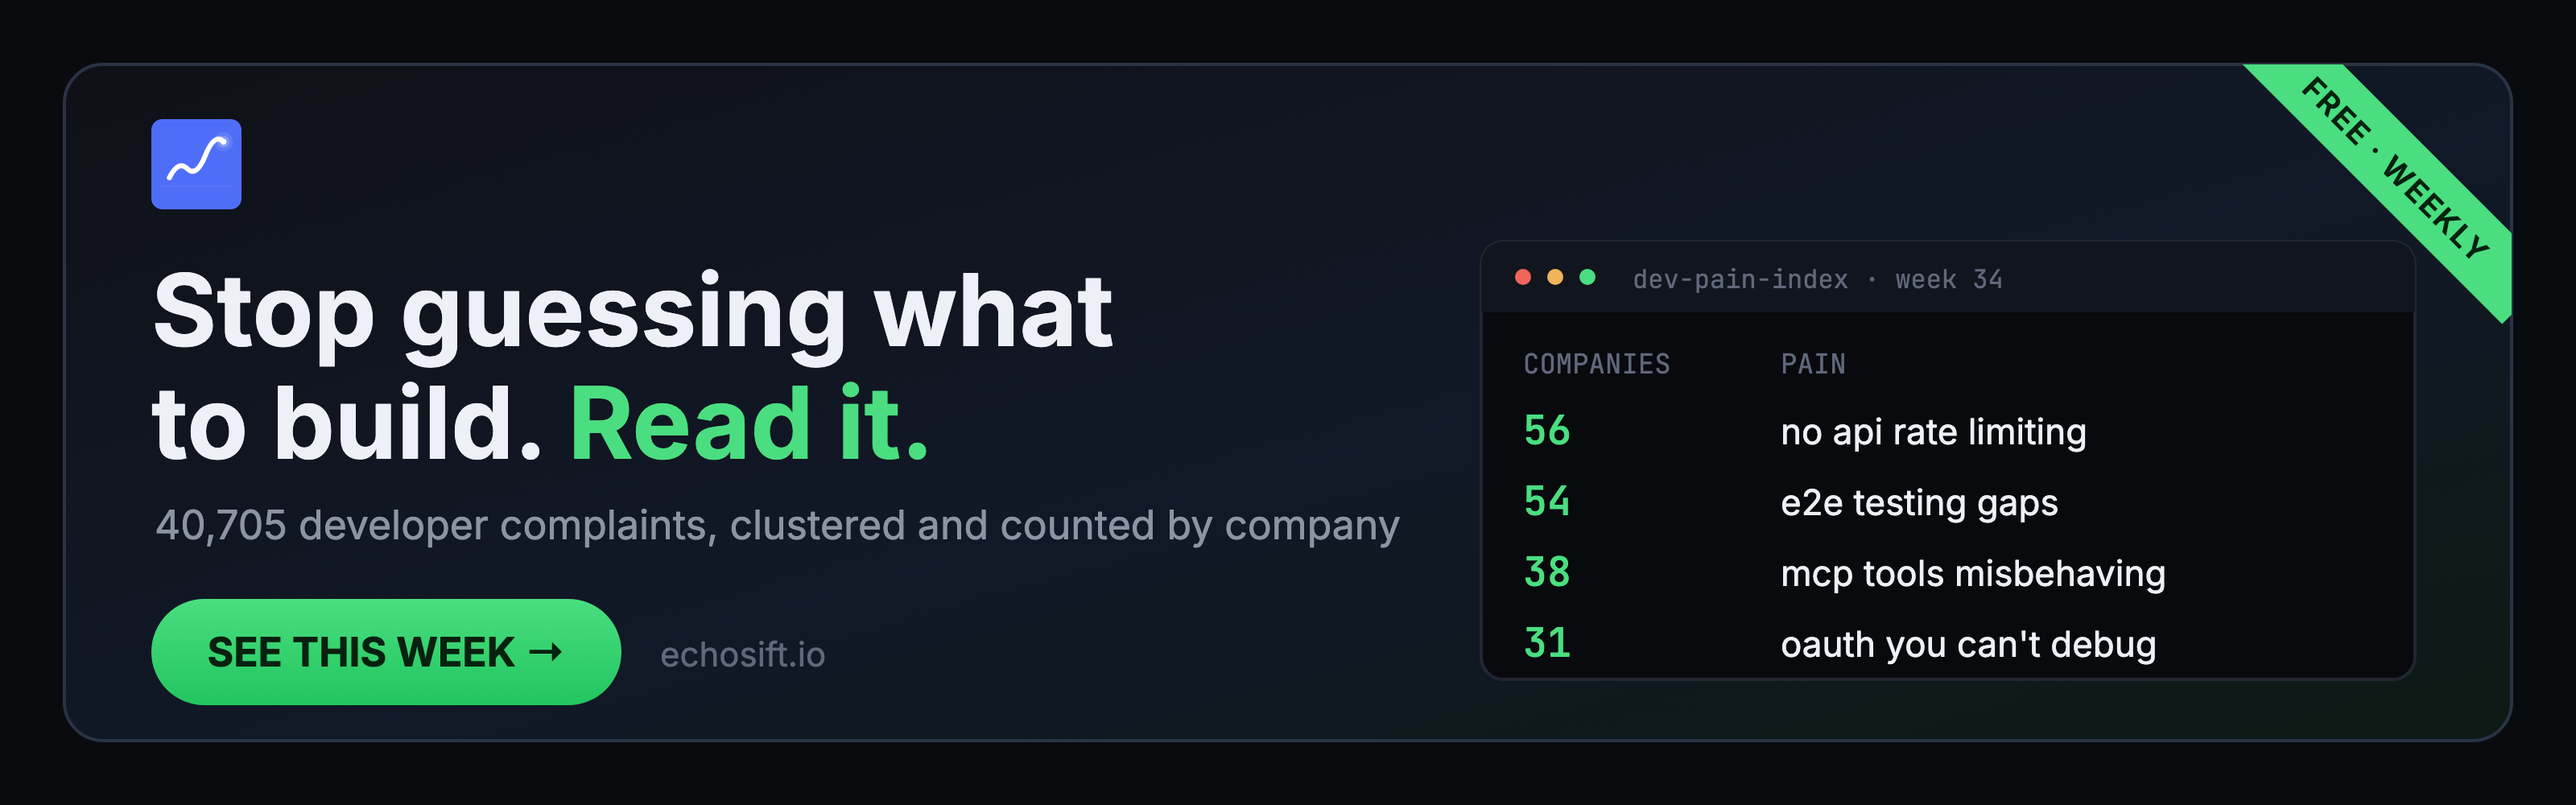
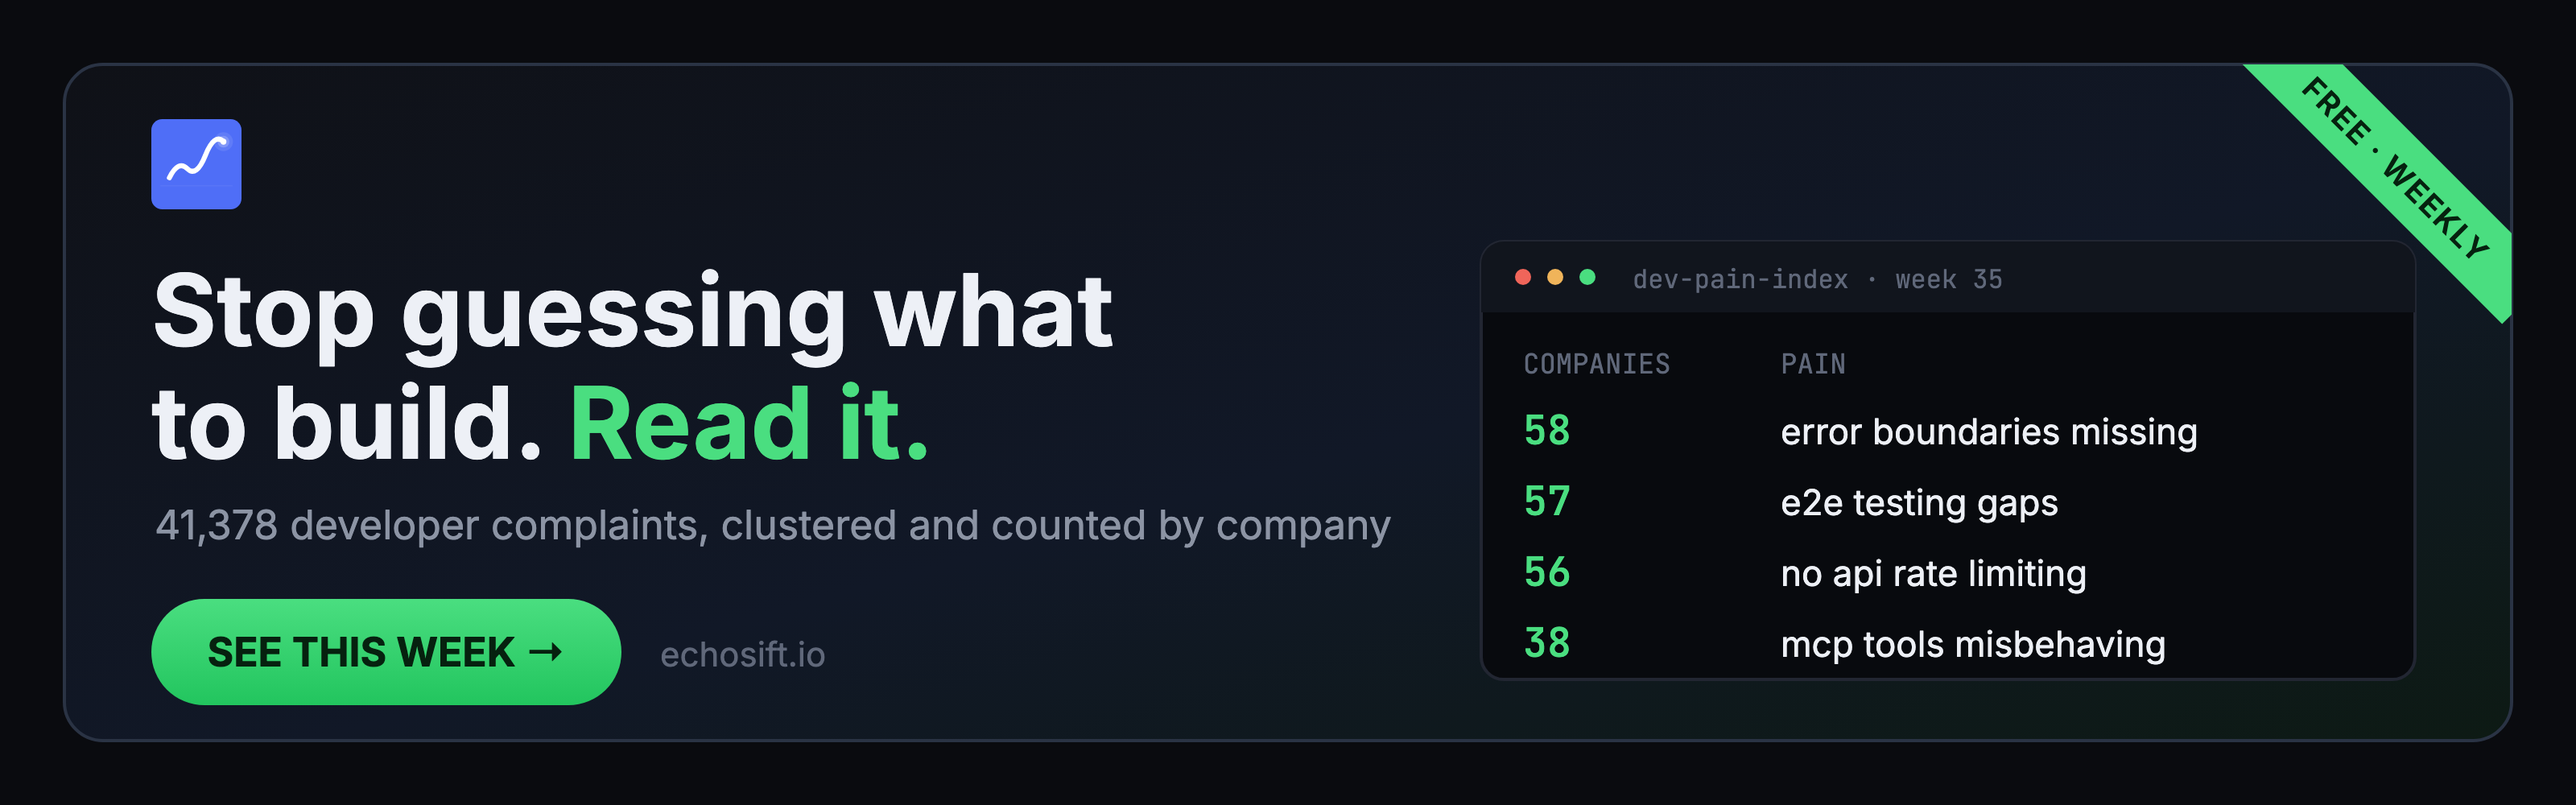
week 35: error boundaries (58) and token refresh (18) enter, admin transfer and npm drop out

diff --git a/README.md b/README.md
@@ -1,8 +1,8 @@
 ![dev-pain-index](assets/banner.png)
 
-# Validated Developer Pain Signals — Week of August 17, 2026
+# Validated Developer Pain Signals — Week of August 24, 2026
 
-![Updated weekly](https://img.shields.io/badge/updated-every%20monday-3ddc84) ![License](https://img.shields.io/badge/report%20license-CC%20BY%204.0-blue) ![Source](https://img.shields.io/badge/source-40%2C740%20clustered%20complaints-06080d)
+![Updated weekly](https://img.shields.io/badge/updated-every%20monday-3ddc84) ![License](https://img.shields.io/badge/report%20license-CC%20BY%204.0-blue) ![Source](https://img.shields.io/badge/source-41%2C378%20clustered%20complaints-06080d)
 
 10 developer pains worth building for, ranked by **distinct companies affected**,
 not upvotes. Every row links to public issues you can read yourself.
@@ -11,29 +11,32 @@ Sources: GitHub Issues, Stack Overflow, Hacker News, Bluesky.
 
 | # | Pain | Companies | 7d | Type |
 |---|------|-----------|----|------|
-| 1 | API endpoints shipped with no rate limiting | 56 | → steady | bug |
-| 2 | E2E testing is the first thing teams cut and the first thing that bites them | 54 | ↑ 3 → 5 | feature request |
-| 3 | Documentation links rot faster than anyone fixes them | 40 | ↓ 6 → 3 | bug |
-| 4 | MCP tools that connect but don't behave (visibility, naming, schemas) | 38 | ↓ 4 → 3 | bug |
-| 5 | OAuth flows that break exactly where you can't debug them | 31 | ↑ 3 → 4 | complaint |
-| 6 | No good way to find, install and version MCP servers | 30 | → steady | complaint |
-| 7 | CI pipelines that gate nothing or flake constantly | 21 | ↑ 7 → 12 | bug |
-| 8 | AI agents forget everything between sessions | 17 | ↓ 5 → 1 | feature request |
-| 9 | Single-step admin transfer can brick your whole registry | 13 | ↑ 0 → 4 | complaint |
-| 10 | npm peer dependency hell, now with hidden failure modes | 12 | ↓ 3 → 1 | bug |
+| 1 | One component error takes down the whole page, no boundary, no recovery | 58 | ↑ 0 → 2 | feature request |
+| 2 | E2E testing is the first thing teams cut and the first thing that bites them | 57 | ↓ 6 → 2 | feature request |
+| 3 | API endpoints shipped with no rate limiting | 56 | → steady | bug |
+| 4 | Documentation links rot faster than anyone fixes them | 40 | ↓ 8 → 1 | bug |
+| 5 | MCP tools that connect but don't behave (visibility, naming, schemas) | 38 | ↓ 5 → 4 | bug |
+| 6 | OAuth flows that break exactly where you can't debug them | 31 | ↓ 6 → 0 | complaint |
+| 7 | No good way to find, install and version MCP servers | 30 | ↓ 2 → 1 | complaint |
+| 8 | CI pipelines that gate nothing or flake constantly | 24 | ↓ 11 → 7 | bug |
+| 9 | Access tokens expire and the frontend never refreshes them | 18 | ↑ 0 → 2 | complaint |
+| 10 | AI agents forget everything between sessions | 17 | ↓ 4 → 1 | feature request |
+
+**New this week:** #1 (error boundaries) and #9 (token refresh).
+**Dropped:** single-step admin transfer and npm peer dependency resolution, both now below the cut.
 
 ## The evidence
 
 <details>
-<summary><b>1. Missing rate limiting (56 companies)</b></summary>
+<summary><b>1. Missing error boundaries (58 companies)</b></summary>
 
-- "Extend the Redis sliding-window guard to cover proxy endpoints: per-user limit on balance-fetch and FX-rate, per-IP on unauthenticated auth endpoints, 429 with Retry-After" — [AfroPay-Stellar#204](https://github.com/Afro-Pay/AfroPay-Stellar/issues/204)
-- "Add rate limiting to create-payment, the Companies House proxy, both PDF routes and the public accept/sign actions" — [motkoquote#97](https://github.com/jacobabuckland/motkoquote/issues/97)
-- "A blanket per-session limit treats lightweight GET reads identically to heavy AI reasoning POSTs" — [faultmaven#994](https://github.com/FaultMaven/faultmaven/issues/994)
+- "An unexpected component error may cause a large section of the application to become unusable. Users may see a blank or broken page" — [Stellar-Royalty-Splitter#702](https://github.com/Just-Bamford/Stellar-Royalty-Splitter/issues/702)
+- "Add App Router error, not-found and loading boundaries with client error reporting, with branded recoverable fallbacks and a retry action" — [Invoisio#462](https://github.com/ZyntariHQ/Invoisio/issues/462)
+- "Add skeleton loading states and error boundary components across all data-fetching pages" — [StudyMatePlus#717](https://github.com/lovelymahor/StudyMatePlus/issues/717)
 </details>
 
 <details>
-<summary><b>2. E2E testing (54 companies)</b></summary>
+<summary><b>2. E2E testing (57 companies)</b></summary>
 
 - "e2e: repair the 44 quarantined end-to-end tests" — [upnext-frontend#248](https://github.com/binhphanbp/upnext-frontend/issues/248)
 - "CI never runs the sealed acceptance suite — a red slice sat on main for a day" — [coord-portal#77](https://github.com/JDonaghy/coord-portal/issues/77)
@@ -41,7 +44,15 @@ Sources: GitHub Issues, Stack Overflow, Hacker News, Bluesky.
 </details>
 
 <details>
-<summary><b>3. Broken documentation links (40 companies)</b></summary>
+<summary><b>3. Missing rate limiting (56 companies)</b></summary>
+
+- "Extend the Redis sliding-window guard to cover proxy endpoints: per-user limit on balance-fetch and FX-rate, per-IP on unauthenticated auth endpoints, 429 with Retry-After" — [AfroPay-Stellar#204](https://github.com/Afro-Pay/AfroPay-Stellar/issues/204)
+- "Add rate limiting to create-payment, the Companies House proxy, both PDF routes and the public accept/sign actions" — [motkoquote#97](https://github.com/jacobabuckland/motkoquote/issues/97)
+- "A blanket per-session limit treats lightweight GET reads identically to heavy AI reasoning POSTs" — [faultmaven#994](https://github.com/FaultMaven/faultmaven/issues/994)
+</details>
+
+<details>
+<summary><b>4. Broken documentation links (40 companies)</b></summary>
 
 - "README links to missing docs/screenshot.png" — [beam#243](https://github.com/frecar/beam/issues/243)
 - "Merged route sources link to nonexistent anchor" — [pokemon-sims#3419](https://github.com/FlareZ123/pokemon-sims/issues/3419)
@@ -49,7 +60,7 @@ Sources: GitHub Issues, Stack Overflow, Hacker News, Bluesky.
 </details>
 
 <details>
-<summary><b>4. MCP tool reliability (38 companies)</b></summary>
+<summary><b>5. MCP tool reliability (38 companies)</b></summary>
 
 - "Every MCP tool call fails with ENTITY_VISIBILITY_ENFORCED (entity-independent tools included)" — [ha-mcp#2228](https://github.com/homeassistant-ai/ha-mcp/issues/2228)
 - "The MCP server never publishes tool annotations or output schemas" — [platform#561](https://github.com/ProAgentStore/platform/issues/561)
@@ -57,7 +68,7 @@ Sources: GitHub Issues, Stack Overflow, Hacker News, Bluesky.
 </details>
 
 <details>
-<summary><b>5. OAuth breakage (31 companies)</b></summary>
+<summary><b>6. OAuth breakage (31 companies)</b></summary>
 
 - "MCP OAuth authorization URL never surfaced in remote environments, connection times out" — [Kiro#10817](https://github.com/kirodotdev/Kiro/issues/10817)
 - "Custom HTTP MCP servers cannot enter preregistered OAuth client secrets" — [zed#62553](https://github.com/zed-industries/zed/issues/62553)
@@ -65,7 +76,7 @@ Sources: GitHub Issues, Stack Overflow, Hacker News, Bluesky.
 </details>
 
 <details>
-<summary><b>6. Finding and installing MCP servers (30 companies)</b></summary>
+<summary><b>7. Finding and installing MCP servers (30 companies)</b></summary>
 
 - "Show HN: Pharos, a package manager for MCP servers. Search across all registries in one place, install with dependency resolution" — [pharos-cli](https://github.com/Wpnx330/pharos-cli)
 - "[epic] MCP for third-party clients: partner secret keys, OAuth front door, per-token scopes" — [v2#1306](https://github.com/Jaal-Yantra-Textiles/v2/issues/1306)
@@ -73,39 +84,32 @@ Sources: GitHub Issues, Stack Overflow, Hacker News, Bluesky.
 </details>
 
 <details>
-<summary><b>7. CI pipelines gating nothing (21 companies)</b></summary>
+<summary><b>8. CI pipelines gating nothing (24 companies)</b></summary>
 
 - "Recurrent CI flakes: CPU-efficiency below threshold on unrelated heads" — [gomap#4183](https://github.com/snissn/gomap/issues/4183)
 - "Push validation misaligned with documented branch lanes: no Actions run for its head" — [workbench-kit#283](https://github.com/NewChoBo/workbench-kit/issues/283)
 </details>
 
 <details>
-<summary><b>8. AI agent memory (17 companies)</b></summary>
+<summary><b>9. Access token refresh (18 companies)</b></summary>
+
+- "Frontend token refresh is broken and never invoked: sessions end at the 15-minute access-token expiry" — [NovaLabs#233](https://github.com/NovaCoreLabs1/NovaLabs/issues/233)
+- "Token refresh failure leaves stale authentication state and does not redirect users to the login page" — [CropChain#967](https://github.com/Nitya-003/CropChain/issues/967)
+- "[frontend] No access token refresh, silent auth failures" — [ArenaX#718](https://github.com/Arenax-gaming/ArenaX/issues/718)
+</details>
+
+<details>
+<summary><b>10. AI agent memory (17 companies)</b></summary>
 
 - "Feature Request: Portable Memory Transfer for MCP Agents" — [sarvam-mcp#75](https://github.com/sarvamai/sarvam-mcp/issues/75)
 - "Agents that forget everything between conversations cannot act as co-workers" — [aihub-core#1710](https://github.com/bbvch-ai/aihub-core/issues/1710)
 </details>
 
-<details>
-<summary><b>9. Unsafe admin transfer (13 companies)</b></summary>
-
-- "Make admin transfer two-step to prevent bricking the registry" — [octraban_contract#27](https://github.com/octraban/octraban_contract/issues/27)
-- "Three overlapping admin-assignment paths with different security properties" — [Hunty-contract#673](https://github.com/Samuel1-ona/Hunty-contract/issues/673)
-</details>
-
-<details>
-<summary><b>10. npm dependency resolution (12 companies)</b></summary>
-
-- "ERESOLVE: @angular-builders/jest@20 depends on deprecated peer" — [angular-builders#2387](https://github.com/just-jeb/angular-builders/issues/2387)
-- ".npmrc sets legacy-peer-deps=true, hiding all peer dependency conflicts" — [hunty#852](https://github.com/Samuel1-ona/hunty/issues/852)
-- ".npmrc shamefully-hoist=true masks at least 15 undeclared dependencies" — [tuff#579](https://github.com/talex-touch/tuff/issues/579)
-</details>
-
 ## How this is generated
 
 Complaints from GitHub / Stack Overflow / Hacker News / Bluesky are clustered
-nightly with NLP into 40,740 tracked pain signals, then ranked by **distinct
-companies affected** (owner count), not by upvotes. 308 signals currently span
+nightly with NLP into 41,378 tracked pain signals, then ranked by **distinct
+companies affected** (owner count), not by upvotes. 316 signals currently span
 5+ independent products, roughly 1% of everything tracked.
 
 Three things worth knowing about the selection:
@@ -115,14 +119,14 @@ engineering hours, not that the market solved it.
 
 **Wider is not always better.** A growing share of GitHub issues are written by
 coding agents, and agent-written backlog text is formulaic enough to cluster
-across completely unrelated repos. Some of the widest-looking clusters in the
-corpus are mostly that. They are held back, which costs us some impressive
-numbers and keeps the list readable.
+across completely unrelated repos. Several of the widest clusters in the corpus
+(160+ owners) are mostly that, and they are held back. This week that filter also
+removed a CI/CD cluster at 49 owners and a benchmarking cluster at 21.
 
 **Pure UI polish is left out on purpose.** Contrast ratios and theme toggles are
 real bugs, but they are implementation work, not markets.
 
-Generated with [EchoSift](https://echosift.io). Full board: 40,000+ clusters,
+Generated with [EchoSift](https://echosift.io). Full board: 41,000+ clusters,
 MCP server for your coding agent included.
 
 ---

diff --git a/archive/2026-W34.md b/archive/2026-W34.md
@@ -1,0 +1,133 @@
+![dev-pain-index](assets/banner.png)
+
+# Validated Developer Pain Signals — Week of August 17, 2026
+
+![Updated weekly](https://img.shields.io/badge/updated-every%20monday-3ddc84) ![License](https://img.shields.io/badge/report%20license-CC%20BY%204.0-blue) ![Source](https://img.shields.io/badge/source-40%2C740%20clustered%20complaints-06080d)
+
+10 developer pains worth building for, ranked by **distinct companies affected**,
+not upvotes. Every row links to public issues you can read yourself.
+Arrows show the last 7 days against the prior 7.
+Sources: GitHub Issues, Stack Overflow, Hacker News, Bluesky.
+
+| # | Pain | Companies | 7d | Type |
+|---|------|-----------|----|------|
+| 1 | API endpoints shipped with no rate limiting | 56 | → steady | bug |
+| 2 | E2E testing is the first thing teams cut and the first thing that bites them | 54 | ↑ 3 → 5 | feature request |
+| 3 | Documentation links rot faster than anyone fixes them | 40 | ↓ 6 → 3 | bug |
+| 4 | MCP tools that connect but don't behave (visibility, naming, schemas) | 38 | ↓ 4 → 3 | bug |
+| 5 | OAuth flows that break exactly where you can't debug them | 31 | ↑ 3 → 4 | complaint |
+| 6 | No good way to find, install and version MCP servers | 30 | → steady | complaint |
+| 7 | CI pipelines that gate nothing or flake constantly | 21 | ↑ 7 → 12 | bug |
+| 8 | AI agents forget everything between sessions | 17 | ↓ 5 → 1 | feature request |
+| 9 | Single-step admin transfer can brick your whole registry | 13 | ↑ 0 → 4 | complaint |
+| 10 | npm peer dependency hell, now with hidden failure modes | 12 | ↓ 3 → 1 | bug |
+
+## The evidence
+
+<details>
+<summary><b>1. Missing rate limiting (56 companies)</b></summary>
+
+- "Extend the Redis sliding-window guard to cover proxy endpoints: per-user limit on balance-fetch and FX-rate, per-IP on unauthenticated auth endpoints, 429 with Retry-After" — [AfroPay-Stellar#204](https://github.com/Afro-Pay/AfroPay-Stellar/issues/204)
+- "Add rate limiting to create-payment, the Companies House proxy, both PDF routes and the public accept/sign actions" — [motkoquote#97](https://github.com/jacobabuckland/motkoquote/issues/97)
+- "A blanket per-session limit treats lightweight GET reads identically to heavy AI reasoning POSTs" — [faultmaven#994](https://github.com/FaultMaven/faultmaven/issues/994)
+</details>
+
+<details>
+<summary><b>2. E2E testing (54 companies)</b></summary>
+
+- "e2e: repair the 44 quarantined end-to-end tests" — [upnext-frontend#248](https://github.com/binhphanbp/upnext-frontend/issues/248)
+- "CI never runs the sealed acceptance suite — a red slice sat on main for a day" — [coord-portal#77](https://github.com/JDonaghy/coord-portal/issues/77)
+- "[P1] Add deterministic frontend E2E and accessibility gates" — [little-mere-news#12](https://github.com/Gyliardson/little-mere-news/issues/12)
+</details>
+
+<details>
+<summary><b>3. Broken documentation links (40 companies)</b></summary>
+
+- "README links to missing docs/screenshot.png" — [beam#243](https://github.com/frecar/beam/issues/243)
+- "Merged route sources link to nonexistent anchor" — [pokemon-sims#3419](https://github.com/FlareZ123/pokemon-sims/issues/3419)
+- "Two stale index.md line references, already wrong at origin/main" — [insight-wave#1435](https://github.com/cogni-work/insight-wave/issues/1435)
+</details>
+
+<details>
+<summary><b>4. MCP tool reliability (38 companies)</b></summary>
+
+- "Every MCP tool call fails with ENTITY_VISIBILITY_ENFORCED (entity-independent tools included)" — [ha-mcp#2228](https://github.com/homeassistant-ai/ha-mcp/issues/2228)
+- "The MCP server never publishes tool annotations or output schemas" — [platform#561](https://github.com/ProAgentStore/platform/issues/561)
+- "MCP tools with hyphens in tool names fail via standard dispatcher" — [jcode#936](https://github.com/1jehuang/jcode/issues/936)
+</details>
+
+<details>
+<summary><b>5. OAuth breakage (31 companies)</b></summary>
+
+- "MCP OAuth authorization URL never surfaced in remote environments, connection times out" — [Kiro#10817](https://github.com/kirodotdev/Kiro/issues/10817)
+- "Custom HTTP MCP servers cannot enter preregistered OAuth client secrets" — [zed#62553](https://github.com/zed-industries/zed/issues/62553)
+- "OAuth callback responds 400 missing nonce. The nonce is present in the callback URL" — [platform#135](https://github.com/proappstore-online/platform/issues/135)
+</details>
+
+<details>
+<summary><b>6. Finding and installing MCP servers (30 companies)</b></summary>
+
+- "Show HN: Pharos, a package manager for MCP servers. Search across all registries in one place, install with dependency resolution" — [pharos-cli](https://github.com/Wpnx330/pharos-cli)
+- "[epic] MCP for third-party clients: partner secret keys, OAuth front door, per-token scopes" — [v2#1306](https://github.com/Jaal-Yantra-Textiles/v2/issues/1306)
+- "Discoverable MCP: agents can only ever use the tools they were pre-configured with. MCP allows tool discovery but doesn't solve the registry problem" — [ore#247](https://github.com/andrewhowdencom/ore/issues/247)
+</details>
+
+<details>
+<summary><b>7. CI pipelines gating nothing (21 companies)</b></summary>
+
+- "Recurrent CI flakes: CPU-efficiency below threshold on unrelated heads" — [gomap#4183](https://github.com/snissn/gomap/issues/4183)
+- "Push validation misaligned with documented branch lanes: no Actions run for its head" — [workbench-kit#283](https://github.com/NewChoBo/workbench-kit/issues/283)
+</details>
+
+<details>
+<summary><b>8. AI agent memory (17 companies)</b></summary>
+
+- "Feature Request: Portable Memory Transfer for MCP Agents" — [sarvam-mcp#75](https://github.com/sarvamai/sarvam-mcp/issues/75)
+- "Agents that forget everything between conversations cannot act as co-workers" — [aihub-core#1710](https://github.com/bbvch-ai/aihub-core/issues/1710)
+</details>
+
+<details>
+<summary><b>9. Unsafe admin transfer (13 companies)</b></summary>
+
+- "Make admin transfer two-step to prevent bricking the registry" — [octraban_contract#27](https://github.com/octraban/octraban_contract/issues/27)
+- "Three overlapping admin-assignment paths with different security properties" — [Hunty-contract#673](https://github.com/Samuel1-ona/Hunty-contract/issues/673)
+</details>
+
+<details>
+<summary><b>10. npm dependency resolution (12 companies)</b></summary>
+
+- "ERESOLVE: @angular-builders/jest@20 depends on deprecated peer" — [angular-builders#2387](https://github.com/just-jeb/angular-builders/issues/2387)
+- ".npmrc sets legacy-peer-deps=true, hiding all peer dependency conflicts" — [hunty#852](https://github.com/Samuel1-ona/hunty/issues/852)
+- ".npmrc shamefully-hoist=true masks at least 15 undeclared dependencies" — [tuff#579](https://github.com/talex-touch/tuff/issues/579)
+</details>
+
+## How this is generated
+
+Complaints from GitHub / Stack Overflow / Hacker News / Bluesky are clustered
+nightly with NLP into 40,740 tracked pain signals, then ranked by **distinct
+companies affected** (owner count), not by upvotes. 308 signals currently span
+5+ independent products, roughly 1% of everything tracked.
+
+Three things worth knowing about the selection:
+
+**Some linked issues are closed.** That counts as evidence the pain cost someone
+engineering hours, not that the market solved it.
+
+**Wider is not always better.** A growing share of GitHub issues are written by
+coding agents, and agent-written backlog text is formulaic enough to cluster
+across completely unrelated repos. Some of the widest-looking clusters in the
+corpus are mostly that. They are held back, which costs us some impressive
+numbers and keeps the list readable.
+
+**Pure UI polish is left out on purpose.** Contrast ratios and theme toggles are
+real bugs, but they are implementation work, not markets.
+
+Generated with [EchoSift](https://echosift.io). Full board: 40,000+ clusters,
+MCP server for your coding agent included.
+
+---
+
+⭐ **Star** if this saved you research time
+🔔 **Watch → Custom → Releases** to get next Monday's drop
+
+Report license: CC BY 4.0. Quotes belong to their authors, linked above.
